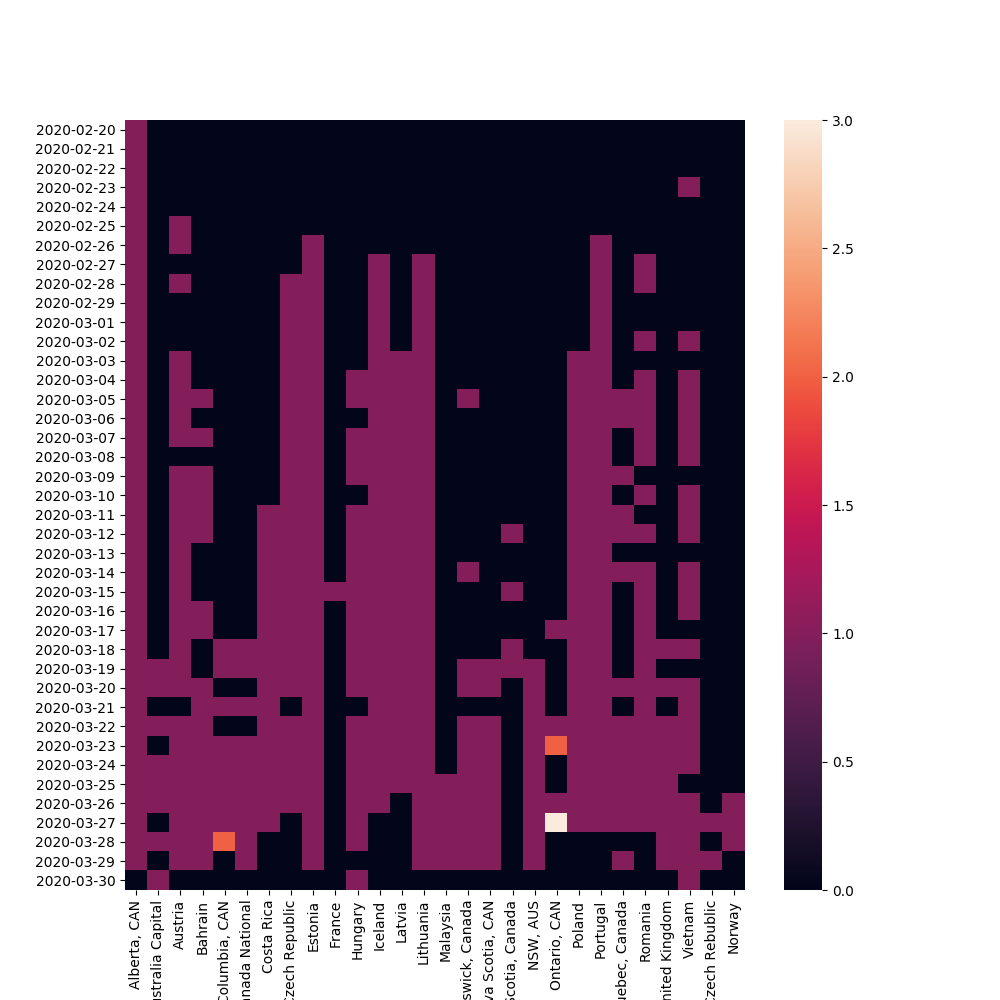
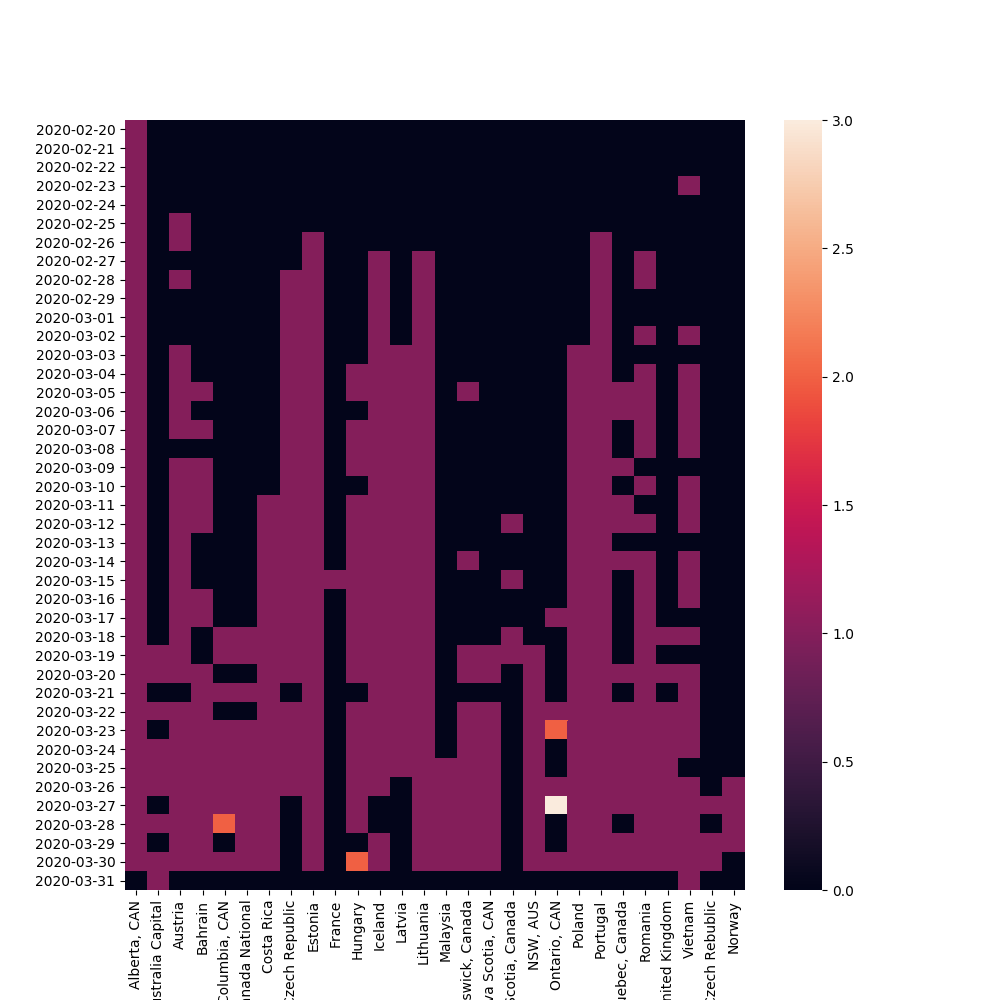
Updated spiders for March 30th

diff --git a/covid19/spiders/international/australiansw.py b/covid19/spiders/international/australiansw.py
@@ -17,8 +17,8 @@ class AustraliaNSWSpider( scrapy.Spider ) :
     #  https://www.health.nsw.gov.au/news/Pages/default.aspx is listing of pres releases
 
     def start_requests( self ):
-        #url_gen = "https://www.health.nsw.gov.au/news/Pages/{}_00.aspx".format( dt.now().strftime( "%Y%m%d" ) )
-        url_gen = "https://www.health.nsw.gov.au/news/Pages/20200329_01.aspx"
+        url_gen = "https://www.health.nsw.gov.au/news/Pages/{}_00.aspx".format( dt.now().strftime( "%Y%m%d" ) )
+        #url_gen = "https://www.health.nsw.gov.au/news/Pages/20200329_01.aspx"
         yield scrapy.Request( url_gen, callback=self.parse )
 
     def parse( self, response ):

diff --git a/covid19/spiders/international/canadaontario.py b/covid19/spiders/international/canadaontario.py
@@ -31,12 +31,12 @@ class CanadaOntarioSpider( scrapy.Spider ):
             value = row.xpath( "td[2]/text()" ).get()
             item_dict[self.case_categories[i]] = int( value )
 
-        item["date"] = "2020-03-27"
+        item["date"] = "2020-03-30"
         item["name"] = "Ontario, CAN"
-        item["negative"] = 40630
-        item["positive"] = 1324
+        item["negative"] = 48461
+        item["positive"] = 1706
         item["deaths"] = 23
-        item["pending"] = 7203
+        item["pending"] = 5651
 
         print( item.toAsciiTable() )
         return item

diff --git a/covid19/spiders/international/lithuania.py b/covid19/spiders/international/lithuania.py
@@ -27,7 +27,7 @@ class LithuaniaSpider(scrapy.Spider):
         total = response.xpath( '//*[@id="module_Structure"]/div[1]/div[2]/div[3]/div[3]/ul/li[5]/text()' ).get()
         total = total.split( ":" )[-1]
 
-        deaths = response.xpath( '//*[@id="module_Structure"]/div[1]/div[2]/div[3]/div[3]/ul/li[2]/b/text()' ).get()
+        deaths = response.xpath( '/html/body/div[1]/div[2]/div[3]/div[3]/ul/li[3]/b/text()' ).get()
         deaths = re.split( " |\xa0", deaths )[1]
 
         item["date"] = date.strftime("%Y-%m-%d")

diff --git a/covid19/spiders/international/canadaalberta.py b/covid19/spiders/international/canadaalberta.py
@@ -42,9 +42,9 @@ class CanadaAlbertaSpider( scrapy.Spider ):
 
         item["name"] = self.names[0]
         item['date'] = dt.now().strftime( "%Y-%m-%d" )
-        item["positive"] = 661
-        item["negative"] = 44338
-        item["deaths"] = 3
+        item["positive"] = 690
+        item["negative"] = 46057 - 690
+        item["deaths"] = 8
 
         print( item.toAsciiTable() )
         return item
